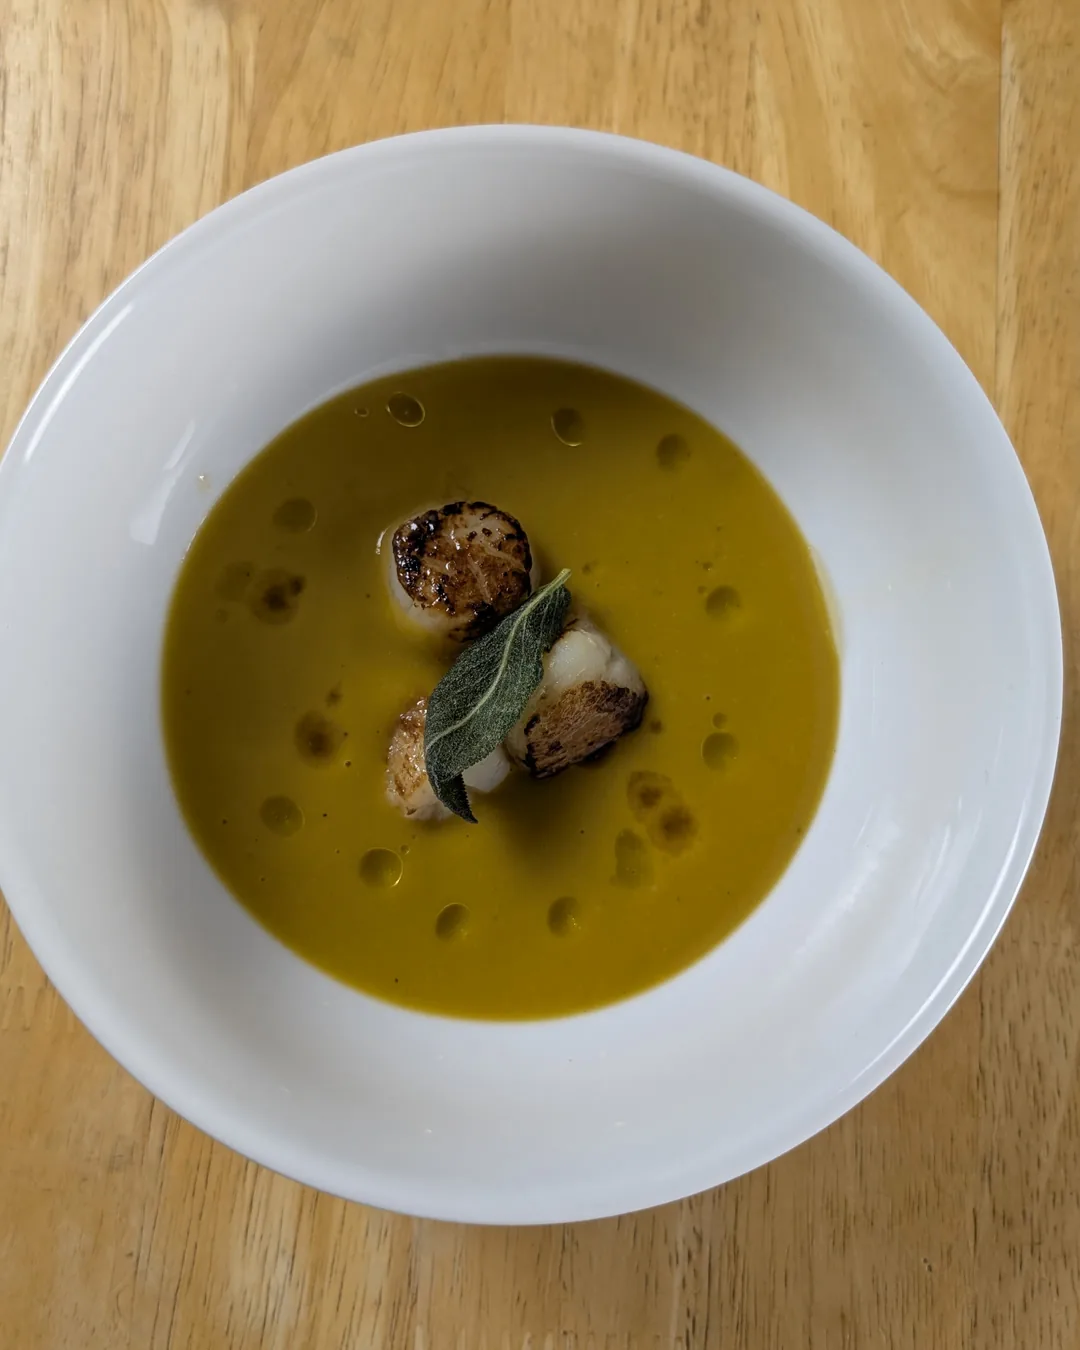
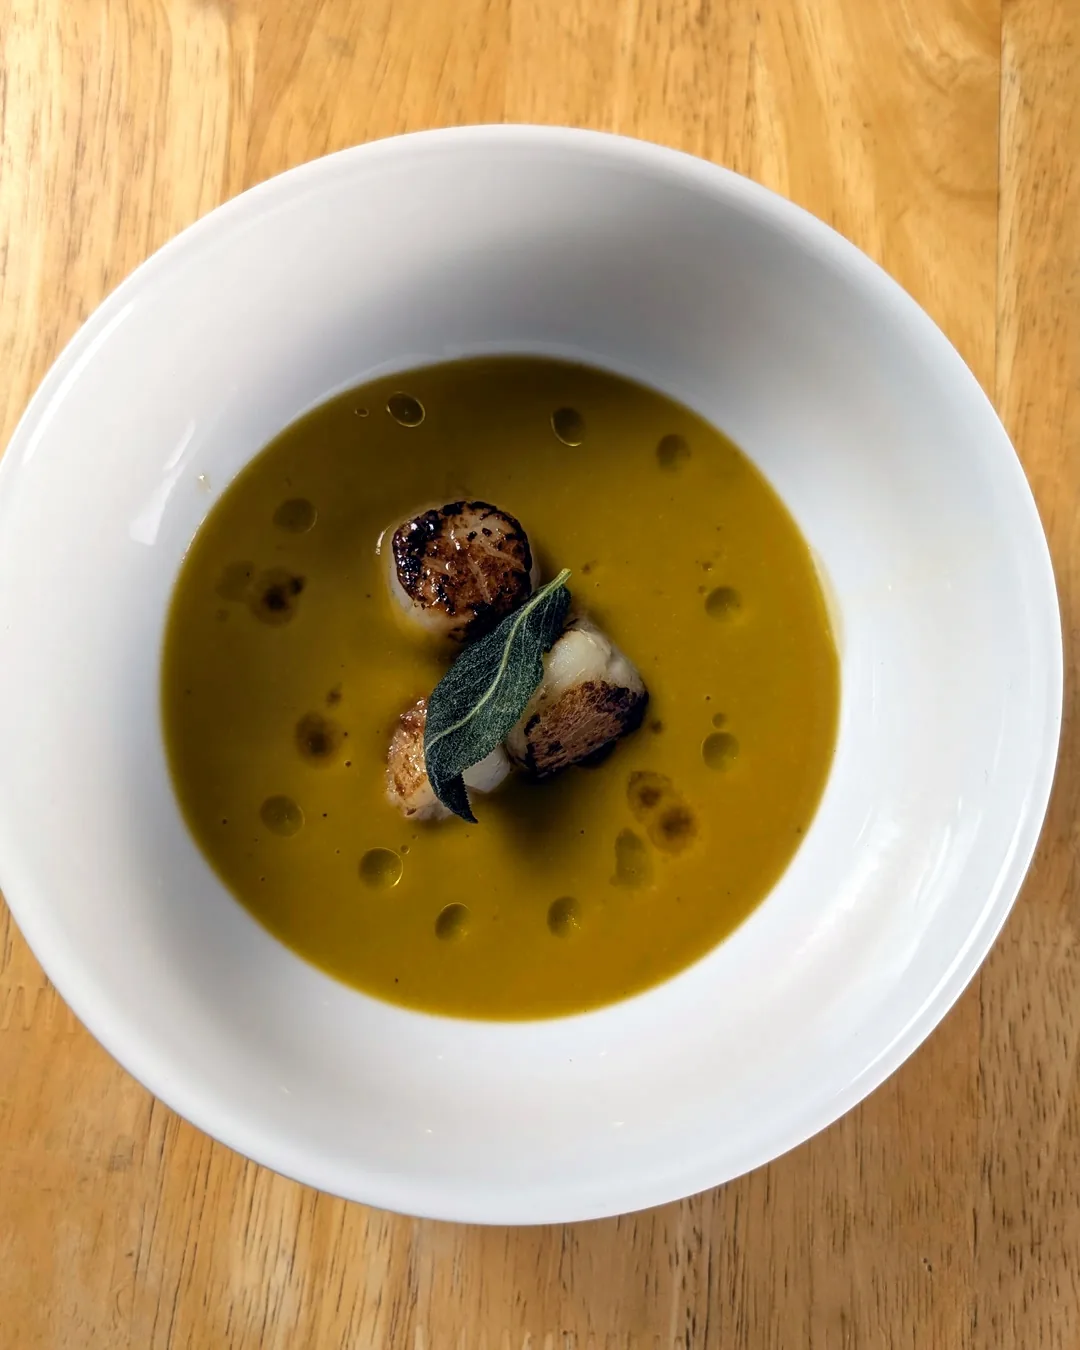
Plates: color-corrected Aged to Perfection photos
Claude-Session: https://claude.ai/code/session_01YXChonDyQSBmA34MB8nBhZ

diff --git a/site/plates/index.html b/site/plates/index.html
@@ -53,19 +53,19 @@ body.lb-lock{overflow:hidden}
             <figcaption>Aged to Perfection · Whipped ricotta crostini trio</figcaption>
           </figure>
           <figure class="plate">
-            <div class="plate-frame"><img src="/plates/img/atp-bisque.webp" alt="Butternut squash and porcini bisque with brown-butter-basted scallops and sage in a white bowl" width="1080" height="1350" loading="lazy" decoding="async"></div>
+            <div class="plate-frame"><img src="/plates/img/atp-bisque.webp?v=2" alt="Butternut squash and porcini bisque with brown-butter-basted scallops and sage in a white bowl" width="1080" height="1350" loading="lazy" decoding="async"></div>
             <figcaption>Aged to Perfection · Butternut squash and porcini bisque</figcaption>
           </figure>
           <figure class="plate">
-            <div class="plate-frame"><img src="/plates/img/atp-salad.webp" alt="Autumn kale salad with apple, walnut and pomegranate on a white plate" width="1080" height="1350" loading="lazy" decoding="async"></div>
+            <div class="plate-frame"><img src="/plates/img/atp-salad.webp?v=2" alt="Autumn kale salad with apple, walnut and pomegranate on a white plate" width="1080" height="1350" loading="lazy" decoding="async"></div>
             <figcaption>Aged to Perfection · Autumn kale salad</figcaption>
           </figure>
           <figure class="plate">
-            <div class="plate-frame"><img src="/plates/img/atp-roast.webp" alt="Sliced 18-hour sous vide chuck roast with a wagyu and duck fat ube-russet pavé, jus and three dots of celeriac-apple espuma on a white plate" width="1080" height="1350" loading="lazy" decoding="async"></div>
+            <div class="plate-frame"><img src="/plates/img/atp-roast.webp?v=2" alt="Sliced 18-hour sous vide chuck roast with a wagyu and duck fat ube-russet pavé, jus and three dots of celeriac-apple espuma on a white plate" width="1080" height="1350" loading="lazy" decoding="async"></div>
             <figcaption>Aged to Perfection · 18-hour sous vide chuck roast</figcaption>
           </figure>
           <figure class="plate">
-            <div class="plate-frame"><img src="/plates/img/atp-dessert.webp" alt="Bitter chocolate crémeux on almond-orange soil with an orange tuile, pomegranate glaze and black lava salt on a white plate" width="1080" height="1350" loading="lazy" decoding="async"></div>
+            <div class="plate-frame"><img src="/plates/img/atp-dessert.webp?v=2" alt="Bitter chocolate crémeux on almond-orange soil with an orange tuile, pomegranate glaze and black lava salt on a white plate" width="1080" height="1350" loading="lazy" decoding="async"></div>
             <figcaption>Aged to Perfection · Deconstructed dark chocolate tart</figcaption>
           </figure>
           <figure class="plate">
